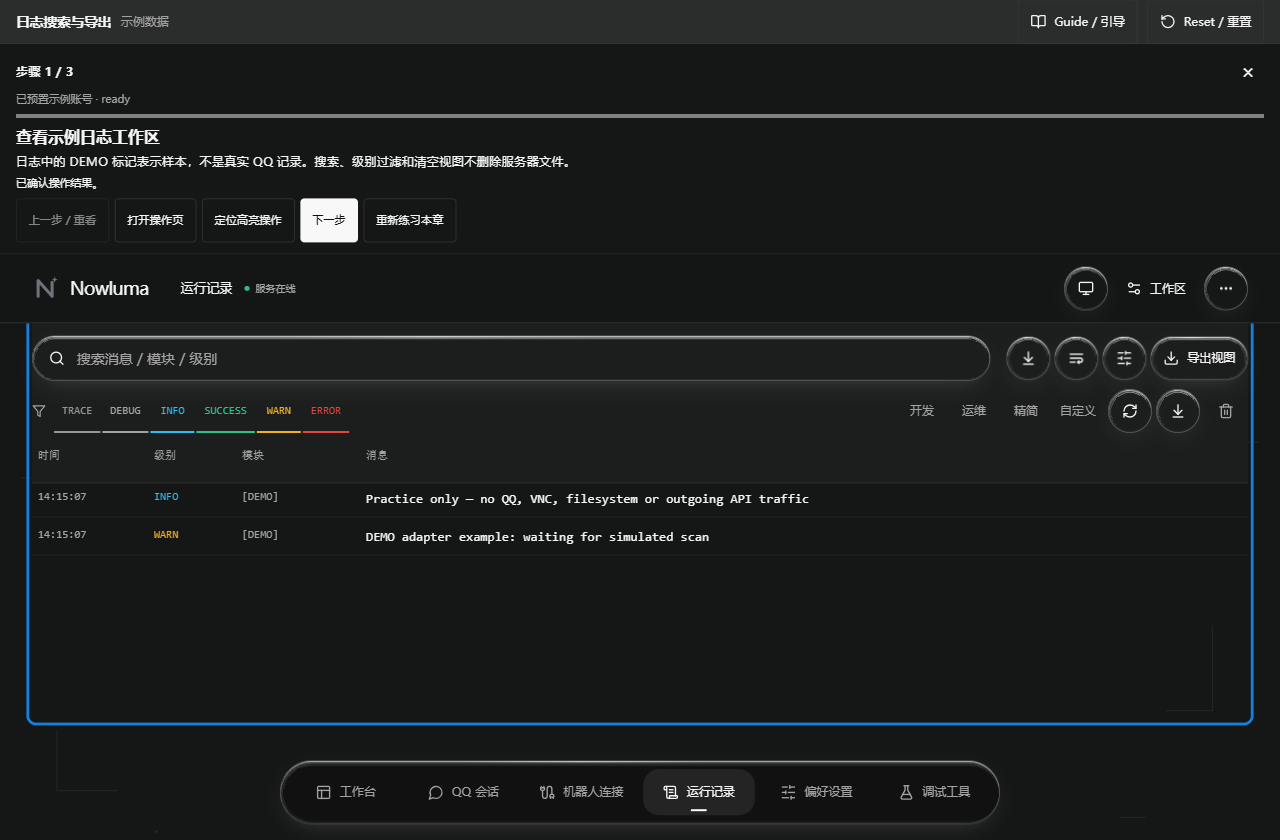
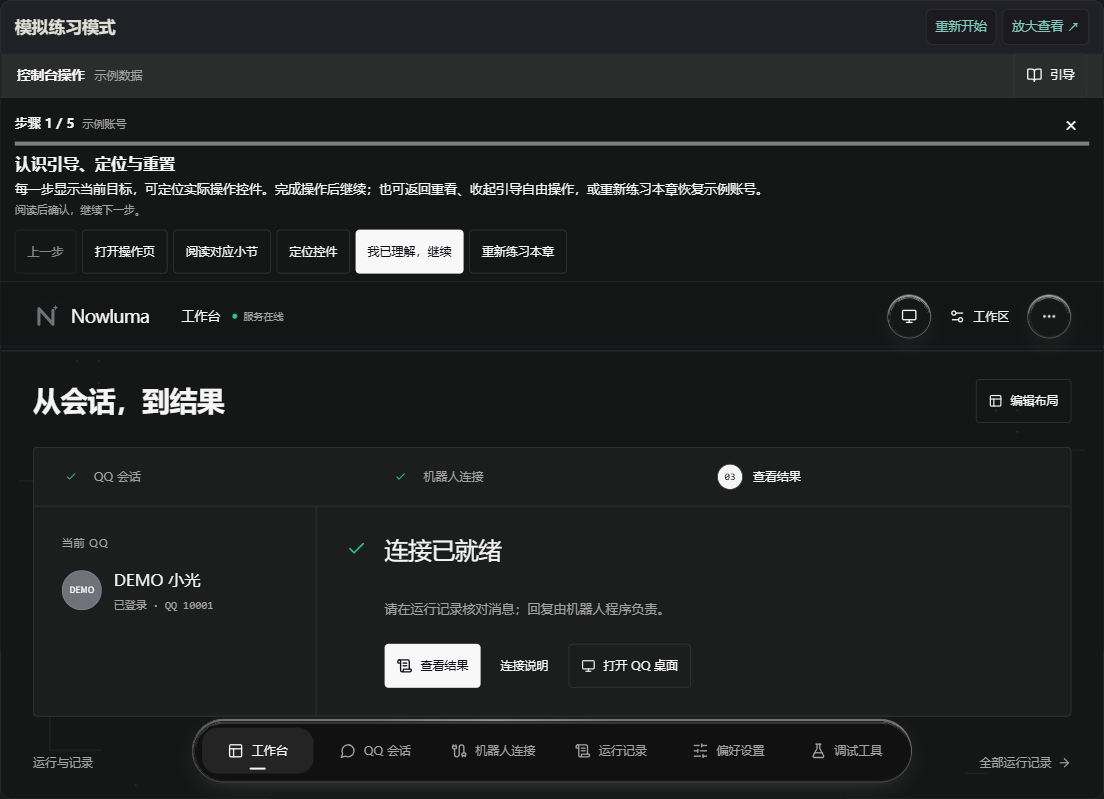
fix(docs): balance embedded tutorial proportions
Use the wide documentation slot, with the outline sticky beside prose and out of the tutorial.
Keep all controls reachable at 320 CSS pixels and let the console use more height on phones. Remove the second header reset inside the embedded view.
Re-capture the actual wide tutorial without stretching. Verify Chromium at 1440, 768, 375 and 320, 19 focused WebUI tests, 8 docs contracts and the complete docs build.

diff --git a/packages/webui/src/demo/TutorialGuide.tsx b/packages/webui/src/demo/TutorialGuide.tsx
@@ -113,6 +113,15 @@ export function TutorialGuide({
                     {en ? 'Step' : '步骤'} {complete ? lesson.steps.length : index + 1} /{' '}
                     {lesson.steps.length}
                 </strong>
+                <span className="demo-tutorial-baseline" data-tutorial-baseline={lesson.baseline}>
+                    {lesson.baseline === 'clean'
+                        ? en
+                            ? 'First setup'
+                            : '首次设置'
+                        : en
+                          ? 'Sample account'
+                          : '示例账号'}
+                </span>
                 <button
                     type="button"
                     onClick={onClose}
@@ -121,22 +130,13 @@ export function TutorialGuide({
                     ×
                 </button>
             </div>
-            <p className="demo-tutorial-baseline" data-tutorial-baseline={lesson.baseline}>
-                {lesson.baseline === 'clean'
-                    ? en
-                        ? 'First setup'
-                        : '首次设置'
-                    : en
-                      ? `Sample account preloaded · ${lesson.baseline}`
-                      : `已预置示例账号 · ${lesson.baseline}`}
-            </p>
             <progress
                 value={complete ? lesson.steps.length : index}
                 max={lesson.steps.length}
                 aria-label={en ? 'Completed practice steps' : '已完成练习步骤'}
             />
             {complete ? (
-                <div role="status" data-tutorial-complete="true">
+                <div className="demo-tutorial-message" role="status" data-tutorial-complete="true">
                     <h2>{en ? 'Chapter practice completed' : '本章练习已完成'}</h2>
                     <p>
                         {en
@@ -145,7 +145,11 @@ export function TutorialGuide({
                     </p>
                 </div>
             ) : (
-                <section aria-labelledby="tutorial-objective">
+                <section
+                    className="demo-tutorial-message"
+                    aria-labelledby="tutorial-objective"
+                    tabIndex={0}
+                >
                     <h2 id="tutorial-objective">{tutorialText(step.title, language)}</h2>
                     <p id="tutorial-hint">{tutorialText(step.hint, language)}</p>
                     <p
@@ -174,12 +178,12 @@ export function TutorialGuide({
                     disabled={!complete && index === 0}
                     onClick={() => selectStep(complete ? lesson.steps.length - 1 : index - 1)}
                 >
-                    {en ? 'Previous / repeat' : '上一步 / 重看'}
+                    {complete ? (en ? 'Review' : '重看') : en ? 'Previous' : '上一步'}
                 </Button>
                 {!complete && (
                     <>
                         <Button size="sm" variant="outline" onClick={() => onNavigate(step.route)}>
-                            {en ? 'Open console page' : '打开操作页'}
+                            {en ? 'Open page' : '打开操作页'}
                         </Button>
                         {typeof window !== 'undefined' && window.parent !== window && section && (
                             <Button
@@ -196,7 +200,7 @@ export function TutorialGuide({
                                     window.parent.postMessage(request, window.location.origin);
                                 }}
                             >
-                                {en ? 'Read this section' : '阅读对应小节'}
+                                {en ? 'Read section' : '阅读对应小节'}
                             </Button>
                         )}
                         <Button
@@ -221,7 +225,7 @@ export function TutorialGuide({
                                 control?.focus({ preventScroll: true });
                             }}
                         >
-                            {en ? 'Find highlighted control' : '定位高亮操作'}
+                            {en ? 'Find control' : '定位控件'}
                         </Button>
                         <Button
                             size="sm"
@@ -265,7 +269,7 @@ export function TutorialGuide({
                     </>
                 )}
                 <Button size="sm" variant="outline" onClick={onRestart}>
-                    {en ? 'Restart chapter' : '重新练习本章'}
+                    {en ? 'Restart' : '重新练习本章'}
                 </Button>
             </div>
         </aside>

diff --git a/packages/webui/src/demo/demo.css b/packages/webui/src/demo/demo.css
@@ -174,32 +174,44 @@
   box-shadow: 0 8px 24px #0002;
 }
 .demo-tutorial-guide {
+  display: flex;
   flex-shrink: 0;
-  max-height: min(19rem, 43dvh);
-  overflow: auto;
-  padding: 0.7rem 1rem;
+  flex-direction: column;
+  max-height: min(18rem, 40dvh);
+  padding: 0.5rem 0.875rem;
   border-bottom: 1px solid var(--border);
   background: var(--background);
-  font-size: 0.78rem;
+  font-size: 0.8125rem;
   line-height: 1.45;
 }
 .demo-tutorial-heading {
   display: flex;
+  flex-shrink: 0;
   align-items: center;
-  gap: 0.7rem;
+  gap: 0.5rem;
 }
-.demo-tutorial-heading strong {
-  flex: 1;
+.demo-tutorial-heading .demo-tutorial-baseline {
+  margin-inline-end: auto;
 }
 .demo-tutorial-heading button {
-  min-width: 2rem;
-  min-height: 2rem;
+  min-width: 2.25rem;
+  min-height: 2.25rem;
   font-size: 1.2rem;
   cursor: pointer;
 }
 .demo-tutorial-guide h2 {
   font-size: 1rem;
   font-weight: 650;
+}
+.demo-tutorial-message {
+  min-height: 0;
+  overflow-y: auto;
+  overscroll-behavior: contain;
+  overflow-wrap: anywhere;
+}
+.demo-tutorial-message:focus-visible {
+  outline: 2px solid var(--ring);
+  outline-offset: -2px;
 }
 .demo-tutorial-guide p {
   margin: 0.25rem 0;
@@ -211,20 +223,22 @@
 }
 .demo-tutorial-guide progress {
   display: block;
+  flex-shrink: 0;
   width: 100%;
   height: 0.25rem;
-  margin: 0.45rem 0;
+  margin: 0 0 0.375rem;
   accent-color: var(--foreground);
 }
 .demo-tutorial-actions {
   display: flex;
+  flex-shrink: 0;
   flex-wrap: wrap;
   gap: 0.35rem;
   margin-top: 0.5rem;
 }
 .demo-tutorial-actions button {
-  min-height: 2rem;
-  font-size: 0.7rem;
+  min-height: 2.75rem;
+  font-size: 0.75rem;
 }
 [data-tutorial-focus] {
   outline: 3px solid #1680dc !important;
@@ -237,6 +251,9 @@
 }
 .demo-tutorial .demo-console {
   position: relative;
+}
+.demo-tutorial .workspace-main > div > [data-radix-scroll-area-viewport] {
+  scroll-padding-block-end: 5.5rem;
 }
 .demo-tutorial [data-tutorial-verified='true'] .demo-tutorial-proof {
   color: var(--foreground);
@@ -268,6 +285,22 @@
     right: 0.5rem;
     top: 4rem;
     max-height: calc(100dvh - 4.5rem);
+  }
+  .demo-tutorial-guide {
+    max-height: min(15rem, 38dvh);
+    padding: 0.375rem 0.5rem;
+  }
+  .demo-tutorial-actions {
+    display: grid;
+    grid-template-columns: repeat(3, minmax(0, 1fr));
+    gap: 0.25rem;
+  }
+  .demo-tutorial-actions button {
+    height: auto;
+    min-width: 0;
+    padding-inline: 0.25rem;
+    white-space: normal;
+    line-height: 1.2;
   }
 }
 @media (prefers-reduced-motion: reduce) {

diff --git a/docs/.vitepress/theme/style.css b/docs/.vitepress/theme/style.css
@@ -12,8 +12,9 @@
 }
 
 .tutorial-simulator {
-  margin-bottom: 2rem;
-  padding: 1rem;
+  max-width: 75rem;
+  margin: 0 auto clamp(1.75rem, 3vw, 2.75rem);
+  overflow: hidden;
   border: 1px solid var(--vp-c-divider);
   border-radius: 12px;
   background: var(--vp-c-bg-soft);
@@ -29,6 +30,8 @@
 
 .tutorial-simulator-toolbar {
   justify-content: space-between;
+  padding: 0.5rem 0.875rem;
+  border-bottom: 1px solid var(--vp-c-divider);
 }
 
 .tutorial-simulator-toolbar h2 {
@@ -38,12 +41,16 @@
 }
 
 .tutorial-simulator-actions {
+  gap: 0.375rem;
   font-size: 0.8rem;
 }
 
 .tutorial-simulator-actions button,
 .tutorial-simulator-actions a {
-  padding: 0.3rem 0.55rem;
+  display: inline-flex;
+  min-height: 2.25rem;
+  align-items: center;
+  padding: 0.25rem 0.55rem;
   border: 1px solid var(--vp-c-divider);
   border-radius: 6px;
   background: var(--vp-c-bg);
@@ -60,30 +67,59 @@
 .tutorial-simulator iframe {
   display: block;
   width: 100%;
-  height: clamp(32rem, 72vh, 56rem);
-  border: 1px solid var(--vp-c-divider);
-  border-radius: 8px;
+  height: clamp(34rem, 76vh, 52rem);
+  border: 0;
   background: var(--vp-c-bg);
 }
 
 .vp-doc img[src*='/images/tutorials/'] {
-  width: 100%;
+  max-width: 100%;
   height: auto;
   border: 1px solid var(--vp-c-divider);
   border-radius: 8px;
 }
 
-@media (max-width: 639px) {
+/* Keep the outline beside the prose, not over the full-width tutorial. */
+@media (min-width: 1280px) {
+  .tutorial-simulator + .container .aside-container {
+    position: sticky;
+    top: calc(var(--vp-nav-height) + var(--vp-layout-top-height, 0px) + 1rem);
+    height: auto;
+    max-height: calc(100vh - var(--vp-nav-height) - var(--vp-layout-top-height, 0px) - 2rem);
+    padding-top: 0;
+  }
+
+  .tutorial-simulator + .container .aside-curtain {
+    display: none;
+  }
+
+  .tutorial-simulator + .container .aside-content {
+    min-height: 0;
+  }
+}
+
+@media (max-width: 959px) {
   .tutorial-simulator {
-    margin-right: -0.75rem;
-    margin-left: -0.75rem;
-    padding: 0.75rem;
+    margin-inline: -0.75rem;
+  }
+}
+
+@media (max-width: 639px) {
+  body {
+    min-width: 0;
+  }
+
+  .tutorial-simulator {
+    margin-inline: -1rem;
+  }
+
+  .tutorial-simulator-toolbar {
+    gap: 0.375rem 0.75rem;
+    padding-inline: 0.5rem;
   }
 
   .tutorial-simulator iframe {
-    height: 42rem;
-    max-height: 85vh;
-    min-height: 30rem;
+    height: clamp(36rem, 88svh, 48rem);
   }
 }
 

diff --git a/packages/webui/src/demo/DemoApp.tsx b/packages/webui/src/demo/DemoApp.tsx
@@ -14,6 +14,8 @@ import './demo.css';
 
 export function DemoApp({ api, options }: { api: DemoApi; options?: TutorialOptions }) {
     const lesson = options?.tutorial ? TUTORIAL_LESSONS[options.tutorial] : undefined;
+    const embedded =
+        lesson && options?.embed && typeof window !== 'undefined' && window.parent !== window;
     const [epoch, setEpoch] = useState(0);
     const [guideOpen, setGuideOpen] = useState(true);
     const [desktopOpen, setDesktopOpen] = useState(false);
@@ -124,7 +126,7 @@ export function DemoApp({ api, options }: { api: DemoApi; options?: TutorialOpti
         <div
             className={`demo-shell${lesson ? ' demo-tutorial' : ''}`}
             data-tutorial={lesson?.id}
-            data-embed={options?.embed ? 'true' : undefined}
+            data-embed={embedded ? 'true' : undefined}
         >
             <header className="demo-banner" aria-label="Nowluma">
                 <div className="demo-banner-label">
@@ -142,11 +144,14 @@ export function DemoApp({ api, options }: { api: DemoApi; options?: TutorialOpti
                         aria-expanded={guideOpen}
                         aria-controls="demo-guide"
                     >
-                        <BookOpen size={15} /> Guide / 引导
+                        <BookOpen size={15} />{' '}
+                        {embedded ? (options?.lang === 'en' ? 'Guide' : '引导') : 'Guide / 引导'}
                     </Button>
-                    <Button variant="outline" size="sm" onClick={reset}>
-                        <RotateCcw size={15} /> Reset / 重置
-                    </Button>
+                    {!embedded && (
+                        <Button variant="outline" size="sm" onClick={reset}>
+                            <RotateCcw size={15} /> Reset / 重置
+                        </Button>
+                    )}
                 </div>
             </header>
             {lesson && (

diff --git a/docs/.vitepress/theme/TutorialSimulator.vue b/docs/.vitepress/theme/TutorialSimulator.vue
@@ -19,12 +19,14 @@ const copy = computed(() =>
     ? {
         title: `${page.value.title} — interactive tutorial`,
         restart: 'Restart tutorial',
-        larger: 'Open larger view (new tab)',
+        larger: 'Full view ↗',
+        largerLabel: 'Open larger view (new tab)',
       }
     : {
         title: `${page.value.title} — 交互教程`,
         restart: '重新开始',
-        larger: '在新标签页中放大',
+        larger: '放大查看 ↗',
+        largerLabel: '在新标签页中放大',
       },
 );
 
@@ -60,9 +62,14 @@ onBeforeUnmount(() => window.removeEventListener('message', onSectionRequest));
         <button type="button" data-tutorial-restart @click="restarts += 1">
           {{ copy.restart }}
         </button>
-        <a :href="source" target="_blank" rel="noopener noreferrer" data-tutorial-larger>{{
-          copy.larger
-        }}</a>
+        <a
+          :href="source"
+          :aria-label="copy.largerLabel"
+          target="_blank"
+          rel="noopener noreferrer"
+          data-tutorial-larger
+          >{{ copy.larger }}</a
+        >
       </div>
     </div>
     <iframe

diff --git a/CHANGELOG.md b/CHANGELOG.md
@@ -28,6 +28,7 @@
 - 文档站迁移到 VitePress，保留中英文章节与旧锚点；逐章内嵌可操作的步骤引导、正文小节跳转与实际界面配图。
 - 简化模拟器标题与引导，移除多余的「安全练习」包装；未完成的操作不能仅靠点击下一步跳过。
 - 隔离教学参数与控制台路由查询，修复设置类教程首次打开时面板为空；同章正文跳转保留当前练习状态。
+- 教程模拟器使用独立宽栏，正文仍保持阅读宽度；手机上引导按钮固定在说明下方，缩短工具栏并给控制台留出更多高度。
 - 整理协议事件、日志存储、WebUI 路由、配置恢复、外观和 MCP 文件传输的职责边界。
 - 修复 Windows 缺少符号链接权限时的 SDK 与目录隔离回归夹具，不放宽路径边界校验。
 - 统一发行资产命名、版本预检、法律文档清单与校验发布顺序；RC 不提升稳定版 latest。
